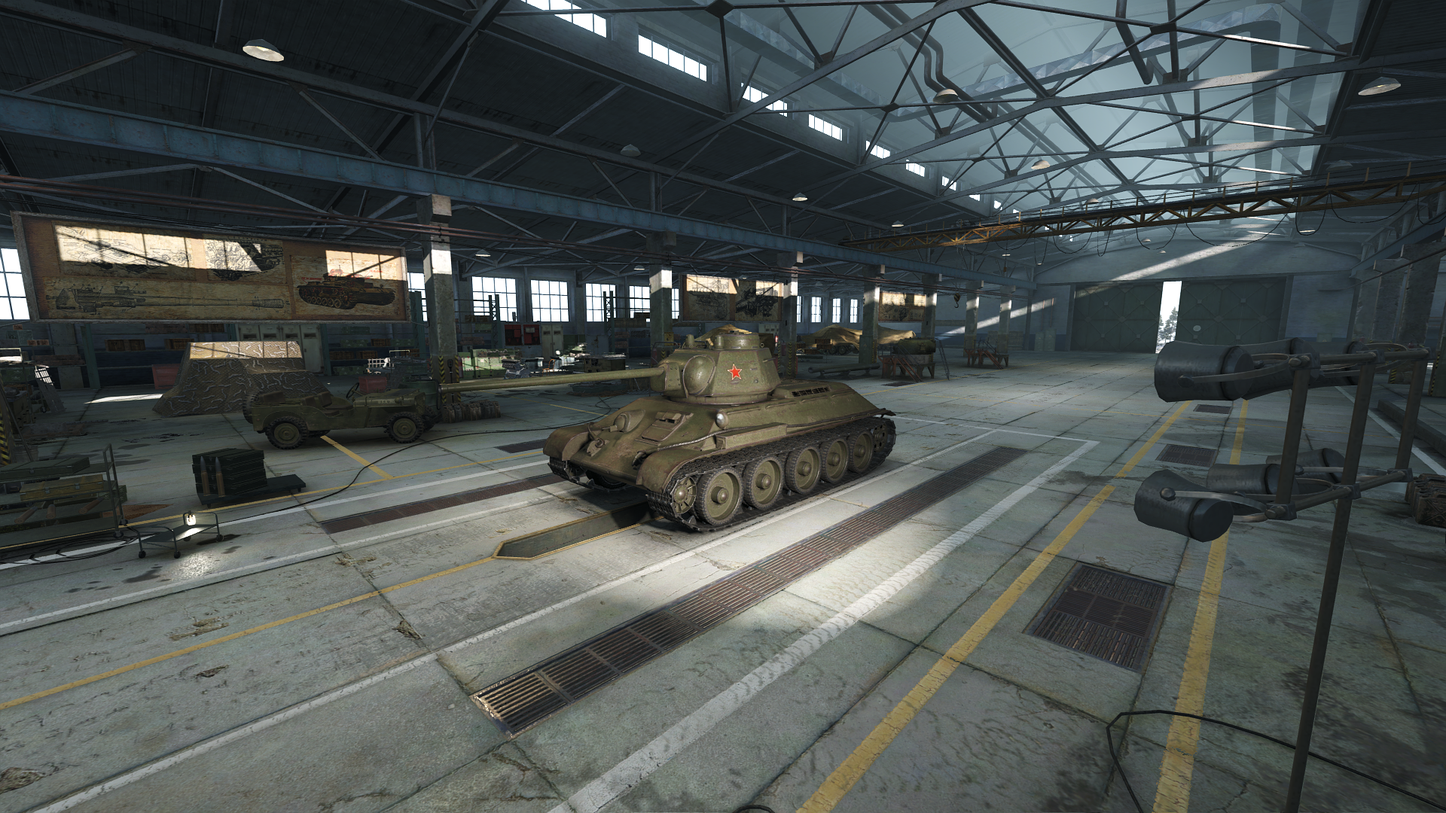
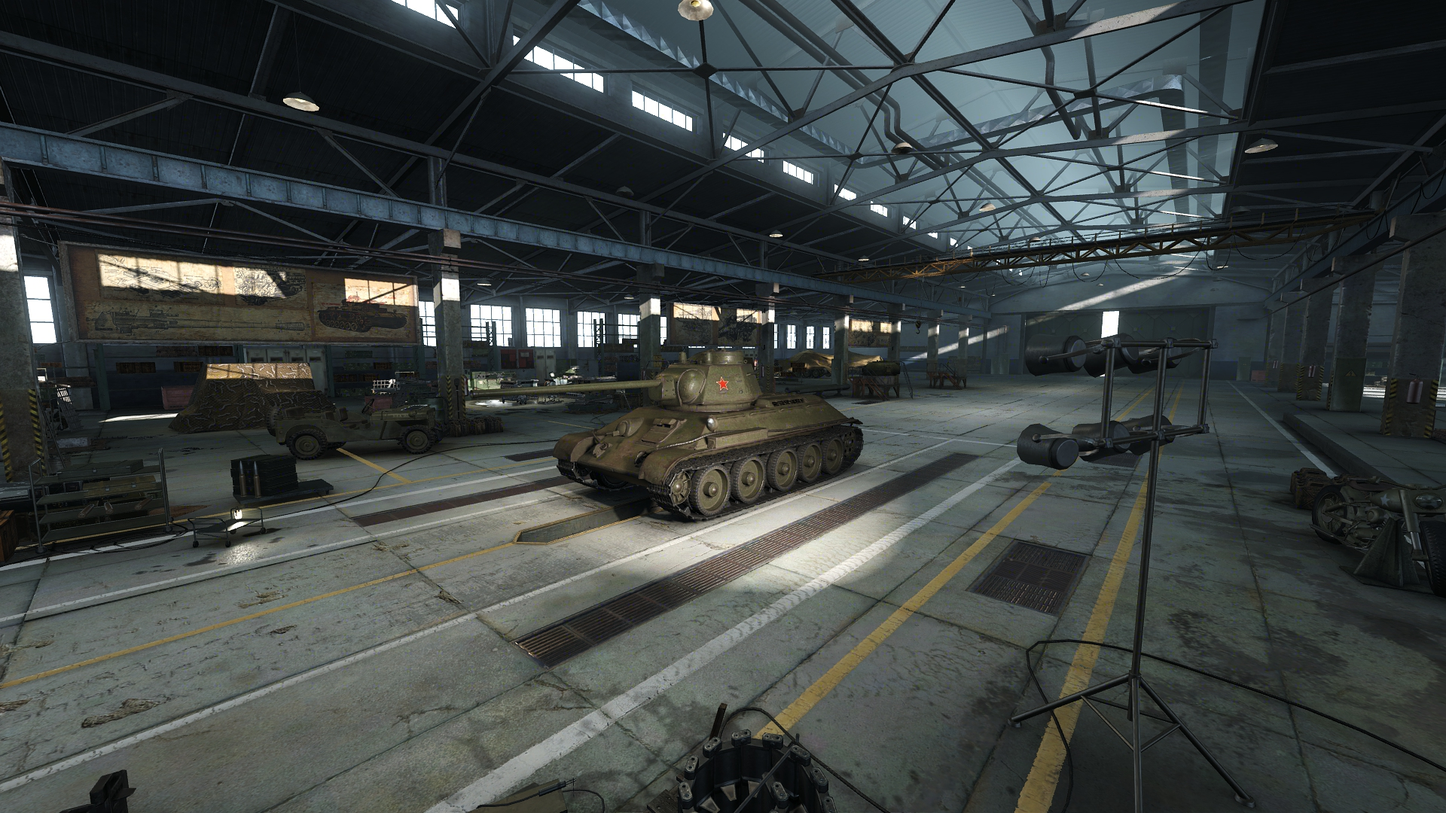
Обновление раздела "В разработке"

diff --git a/_dev-posts/hangars.md b/_dev-posts/hangars.md
@@ -1,6 +1,6 @@
 ---
 title: Ангары
-status: "Обновлено: 24 октября 2023 года"
+status: "Обновлено: 31 октября 2023 года"
 image: /assets/img/indev/thumb/hangars.png
 ---
 
@@ -8,14 +8,16 @@ image: /assets/img/indev/thumb/hangars.png
 
 ![Placeholder]({{ '/assets/img/indev/head/hangars.png' | relative_url }})
 
-{% include indev/status.html status="doe" text="Доработки премиум ангара v2" date="24 октября" %}
+{% include indev/status.html status="doe" text="Доработки премиум ангара v2" date="31 октября" %}
 
 Работа над ангарами ведется каждый день, и мы готовы показать Вам некоторые из изменений во всеми полюбившемся премиум ангаре v2!
 
 - Немного изменена работа камеры;
 - Добавлены и отстроены все 3D звуки;
 - Изменены и добавлены новые источники освещения;
-- Добавлены новые объекты.
+- Добавлены новые объекты;
+- Сгенерированы новые cubemap;
+- Изменена громкость звуков.
 
 [![ангар2]({{ '/assets/img/indev/screens/hpv2_2.png' | relative_url}}){: width="100%" }](/assets/img/indev/screens/hpv2_2.png)
 
